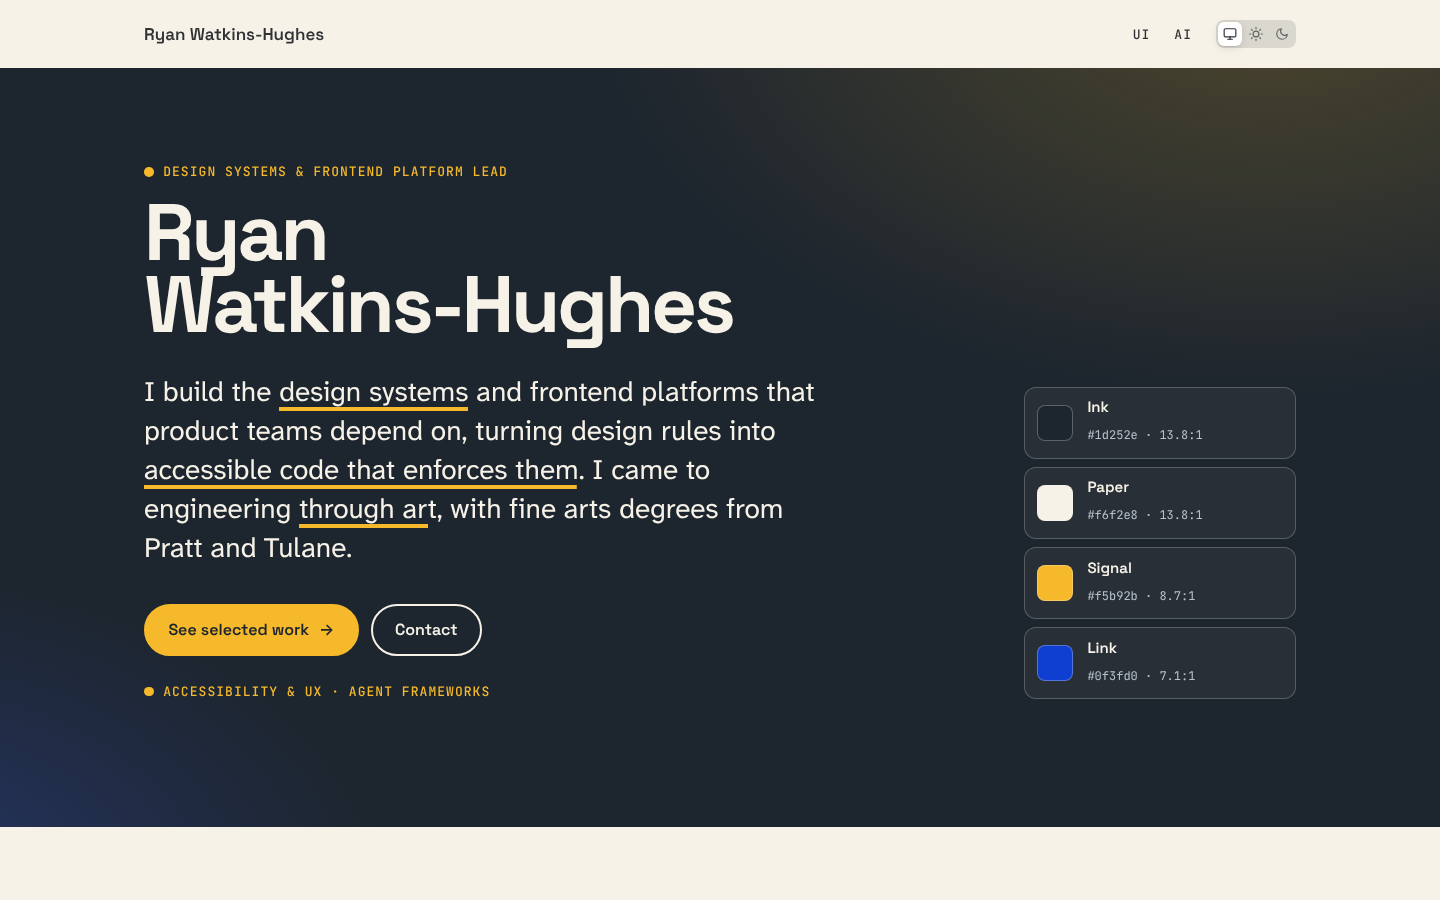
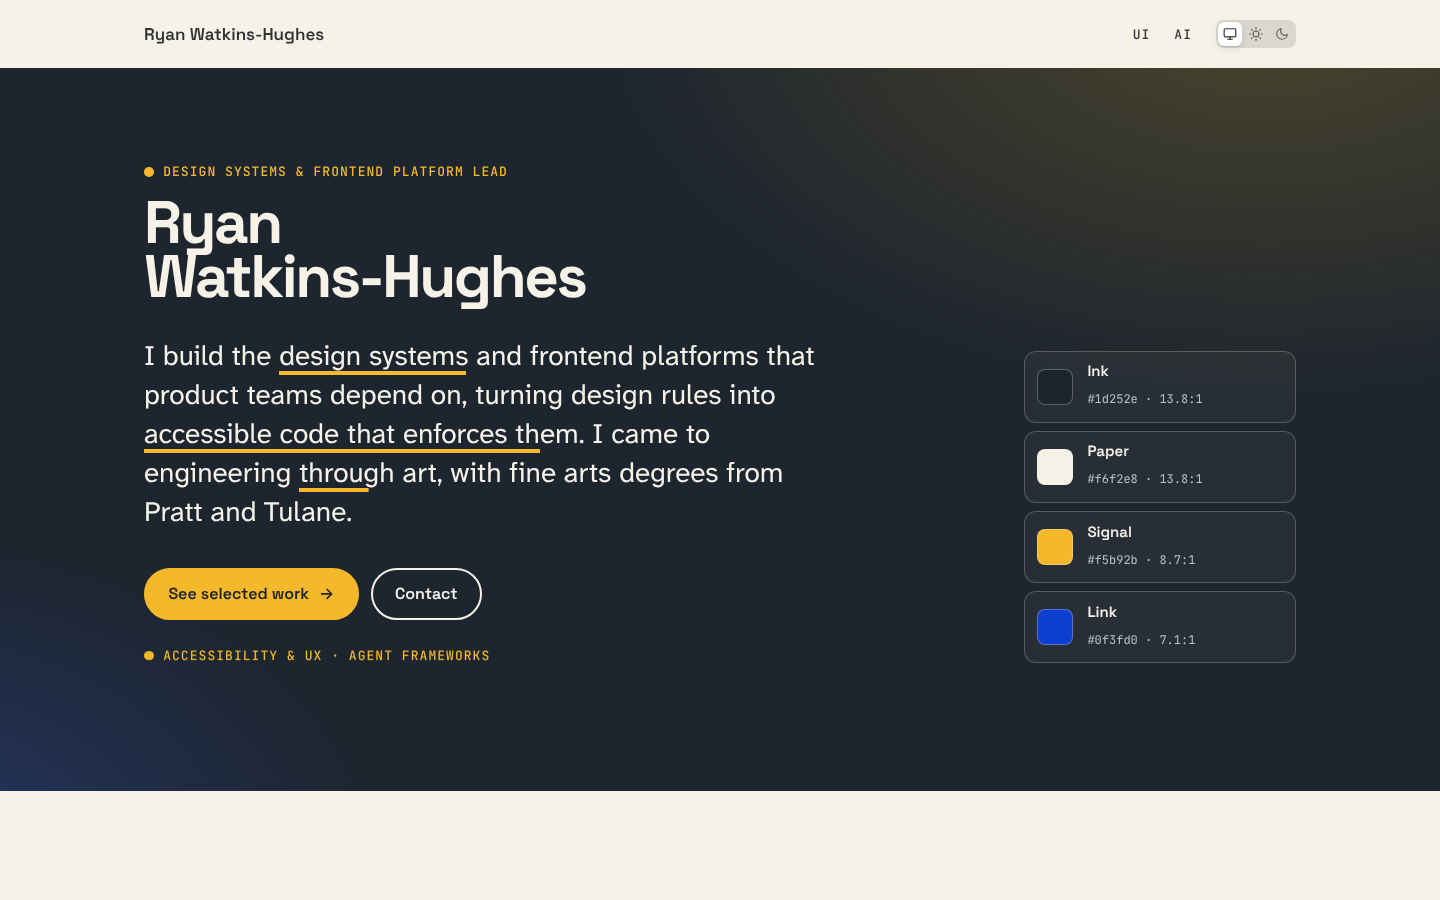
feat(home): lead Experience with DriveWealth, shrink hero title, refresh mocks
Claude-Session: https://claude.ai/code/session_01Ju8PgVw3KV7GPs8CFGqYqG

Changed region(s): [[0.0938, 0.2178, 0.5625, 0.7778], [0.0, 0.8711, 1.0, 0.9333], [0.7188, 0.4044, 0.8438, 0.7778]]

diff --git a/src/routes/pages.tsx b/src/routes/pages.tsx
@@ -105,13 +105,13 @@ export function HomePage() {
       <section className="band reveal" aria-labelledby="experience-h" id="experience">
         <SecHead n="03" id="experience-h">Experience</SecHead>
         <dl className="rows">
-          <div><dt>Overall</dt><dd>15+ years building frontend platforms and design systems.</dd></div>
           <div><dt>DriveWealth</dt><dd>Principal Engineer &amp; Frontend Platform Lead, February 2021 to present. Lead the frontend platform and design system for a fintech trading platform, and manage a distributed engineering team as player-coach.</dd></div>
           <div><dt>Global Holdings</dt><dd>Led five engineers; billions in annual transactional volume; 35% faster release cycles.</dd></div>
           <div><dt>AcrobatAnt</dt><dd>50% better on-time delivery.</dd></div>
           <div><dt>Anaconda</dt><dd>Scaled frontend standards after a $24M Series A.</dd></div>
           <div><dt>Razorfish</dt><dd>Design system work for Fortune 20 accounts.</dd></div>
           <div><dt>Teaching</dt><dd>Teach For America; teaching at Tulane.</dd></div>
+          <div><dt>Overall</dt><dd>15+ years building frontend platforms and design systems.</dd></div>
         </dl>
       </section>
       <Contact />

diff --git a/src/content/home.ts b/src/content/home.ts
@@ -30,13 +30,13 @@ export const home: PageContent = {
         {
           kind: "list",
           items: [
-            "15+ years building frontend platforms and design systems.",
             "DriveWealth: Principal Engineer & Frontend Platform Lead, February 2021 to present. Lead the frontend platform and design system for a fintech trading platform, and manage a distributed engineering team as player-coach.",
             "Global Holdings: led five engineers; billions in annual transactional volume; 35% faster release cycles.",
             "AcrobatAnt: 50% better on-time delivery.",
             "Anaconda: scaled frontend standards after a $24M Series A.",
             "Razorfish: design system work for Fortune 20 accounts.",
             "Teach For America; teaching at Tulane.",
+            "15+ years building frontend platforms and design systems.",
           ],
         },
       ],

diff --git a/src/styles/site.css b/src/styles/site.css
@@ -10,7 +10,7 @@
   --step-0: clamp(1.125rem, 1.05rem + 0.3vw, 1.25rem);
   --step-1: clamp(1.375rem, 1.2rem + 0.8vw, 1.75rem);
   --step-2: clamp(1.75rem, 1.4rem + 1.6vw, 2.75rem);
-  --step-hero: clamp(2.5rem, 1.25rem + 4.5vw, 5rem);
+  --step-hero: clamp(1.875rem, 0.94rem + 3.375vw, 3.75rem);
   --step-label: 0.8125rem;
   --gutter: max(1.25rem, calc((100vw - 72rem) / 2));
   --ease: cubic-bezier(0.2, 0.7, 0.2, 1);
